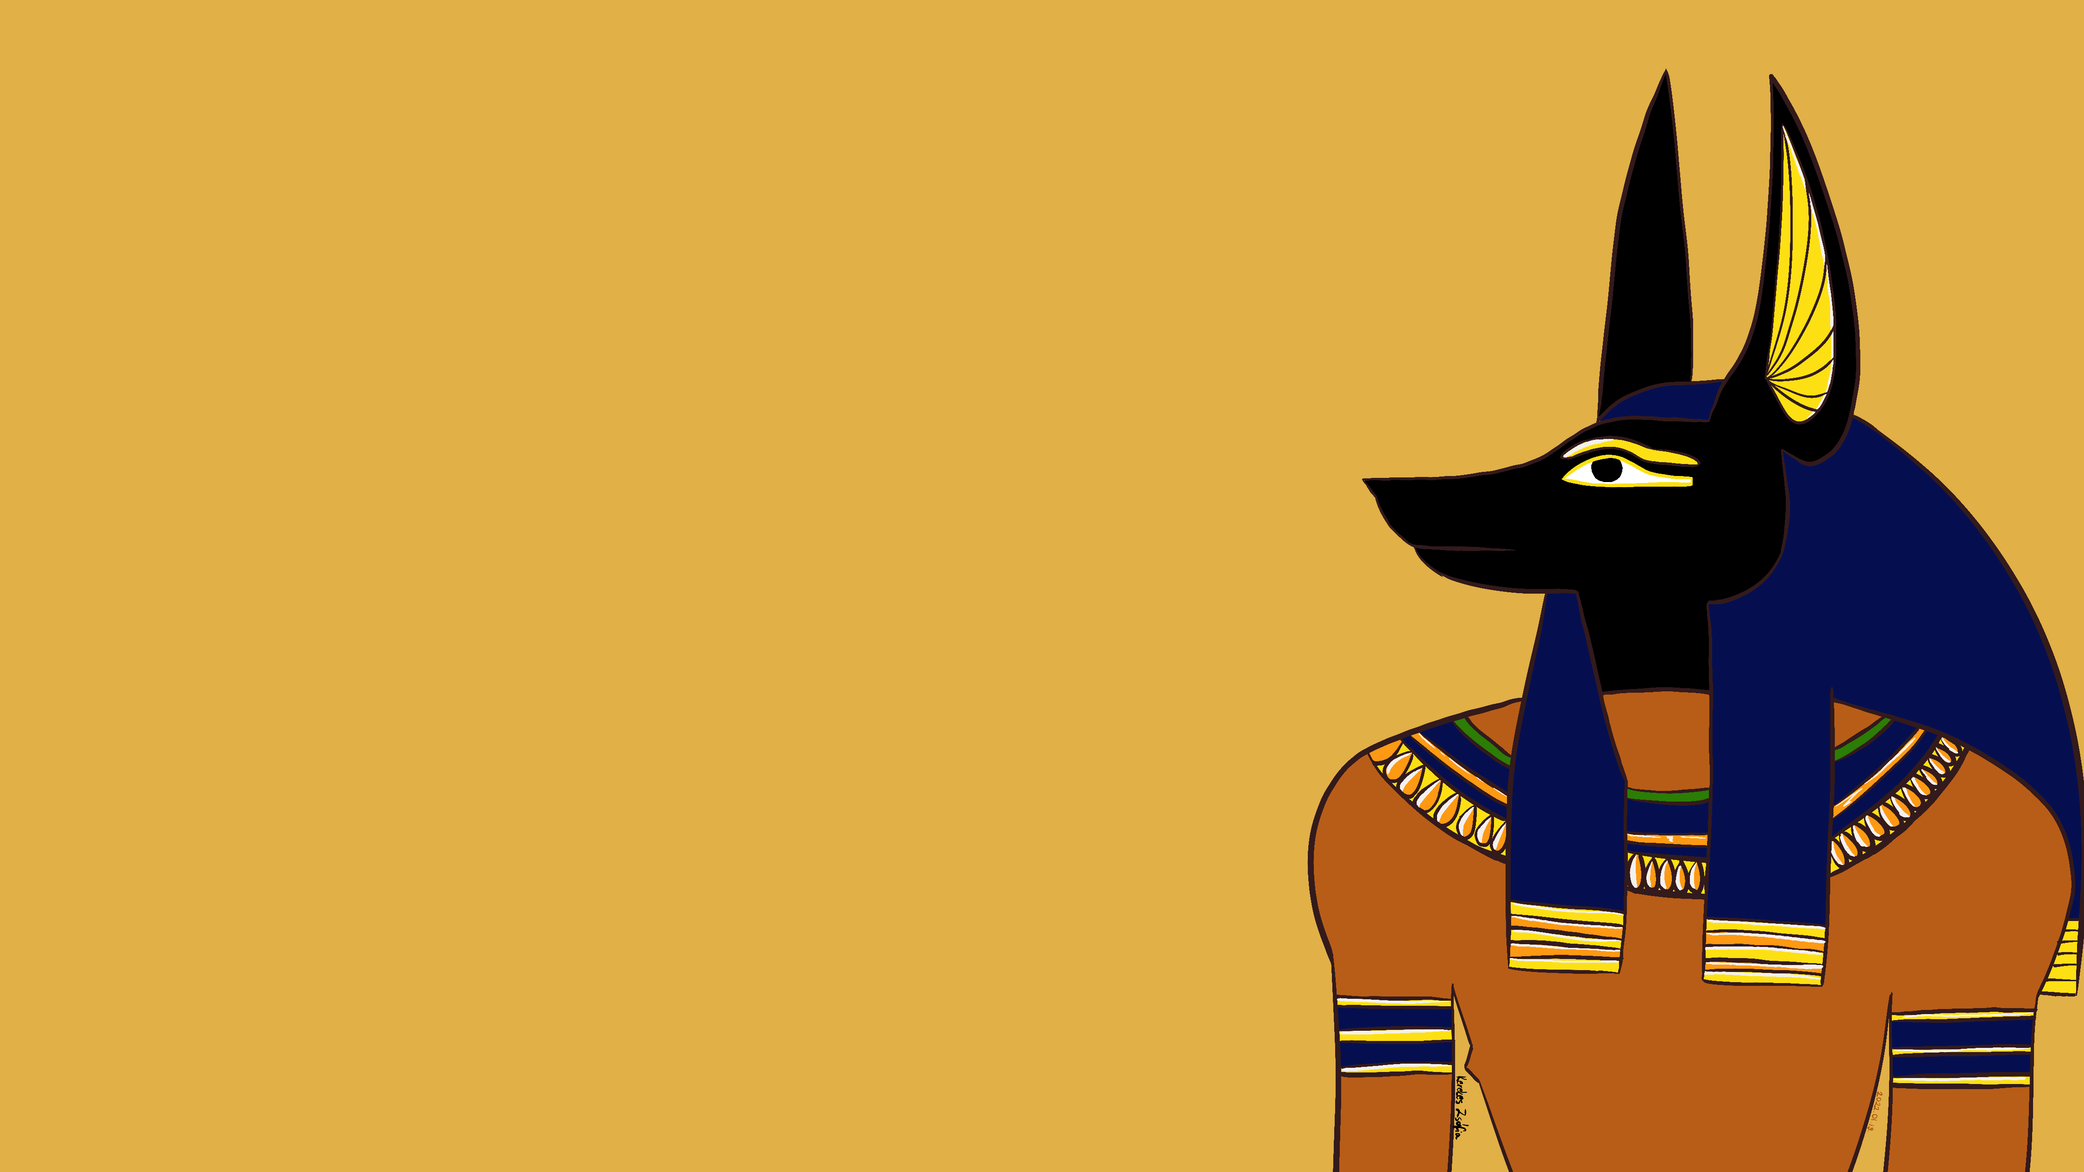
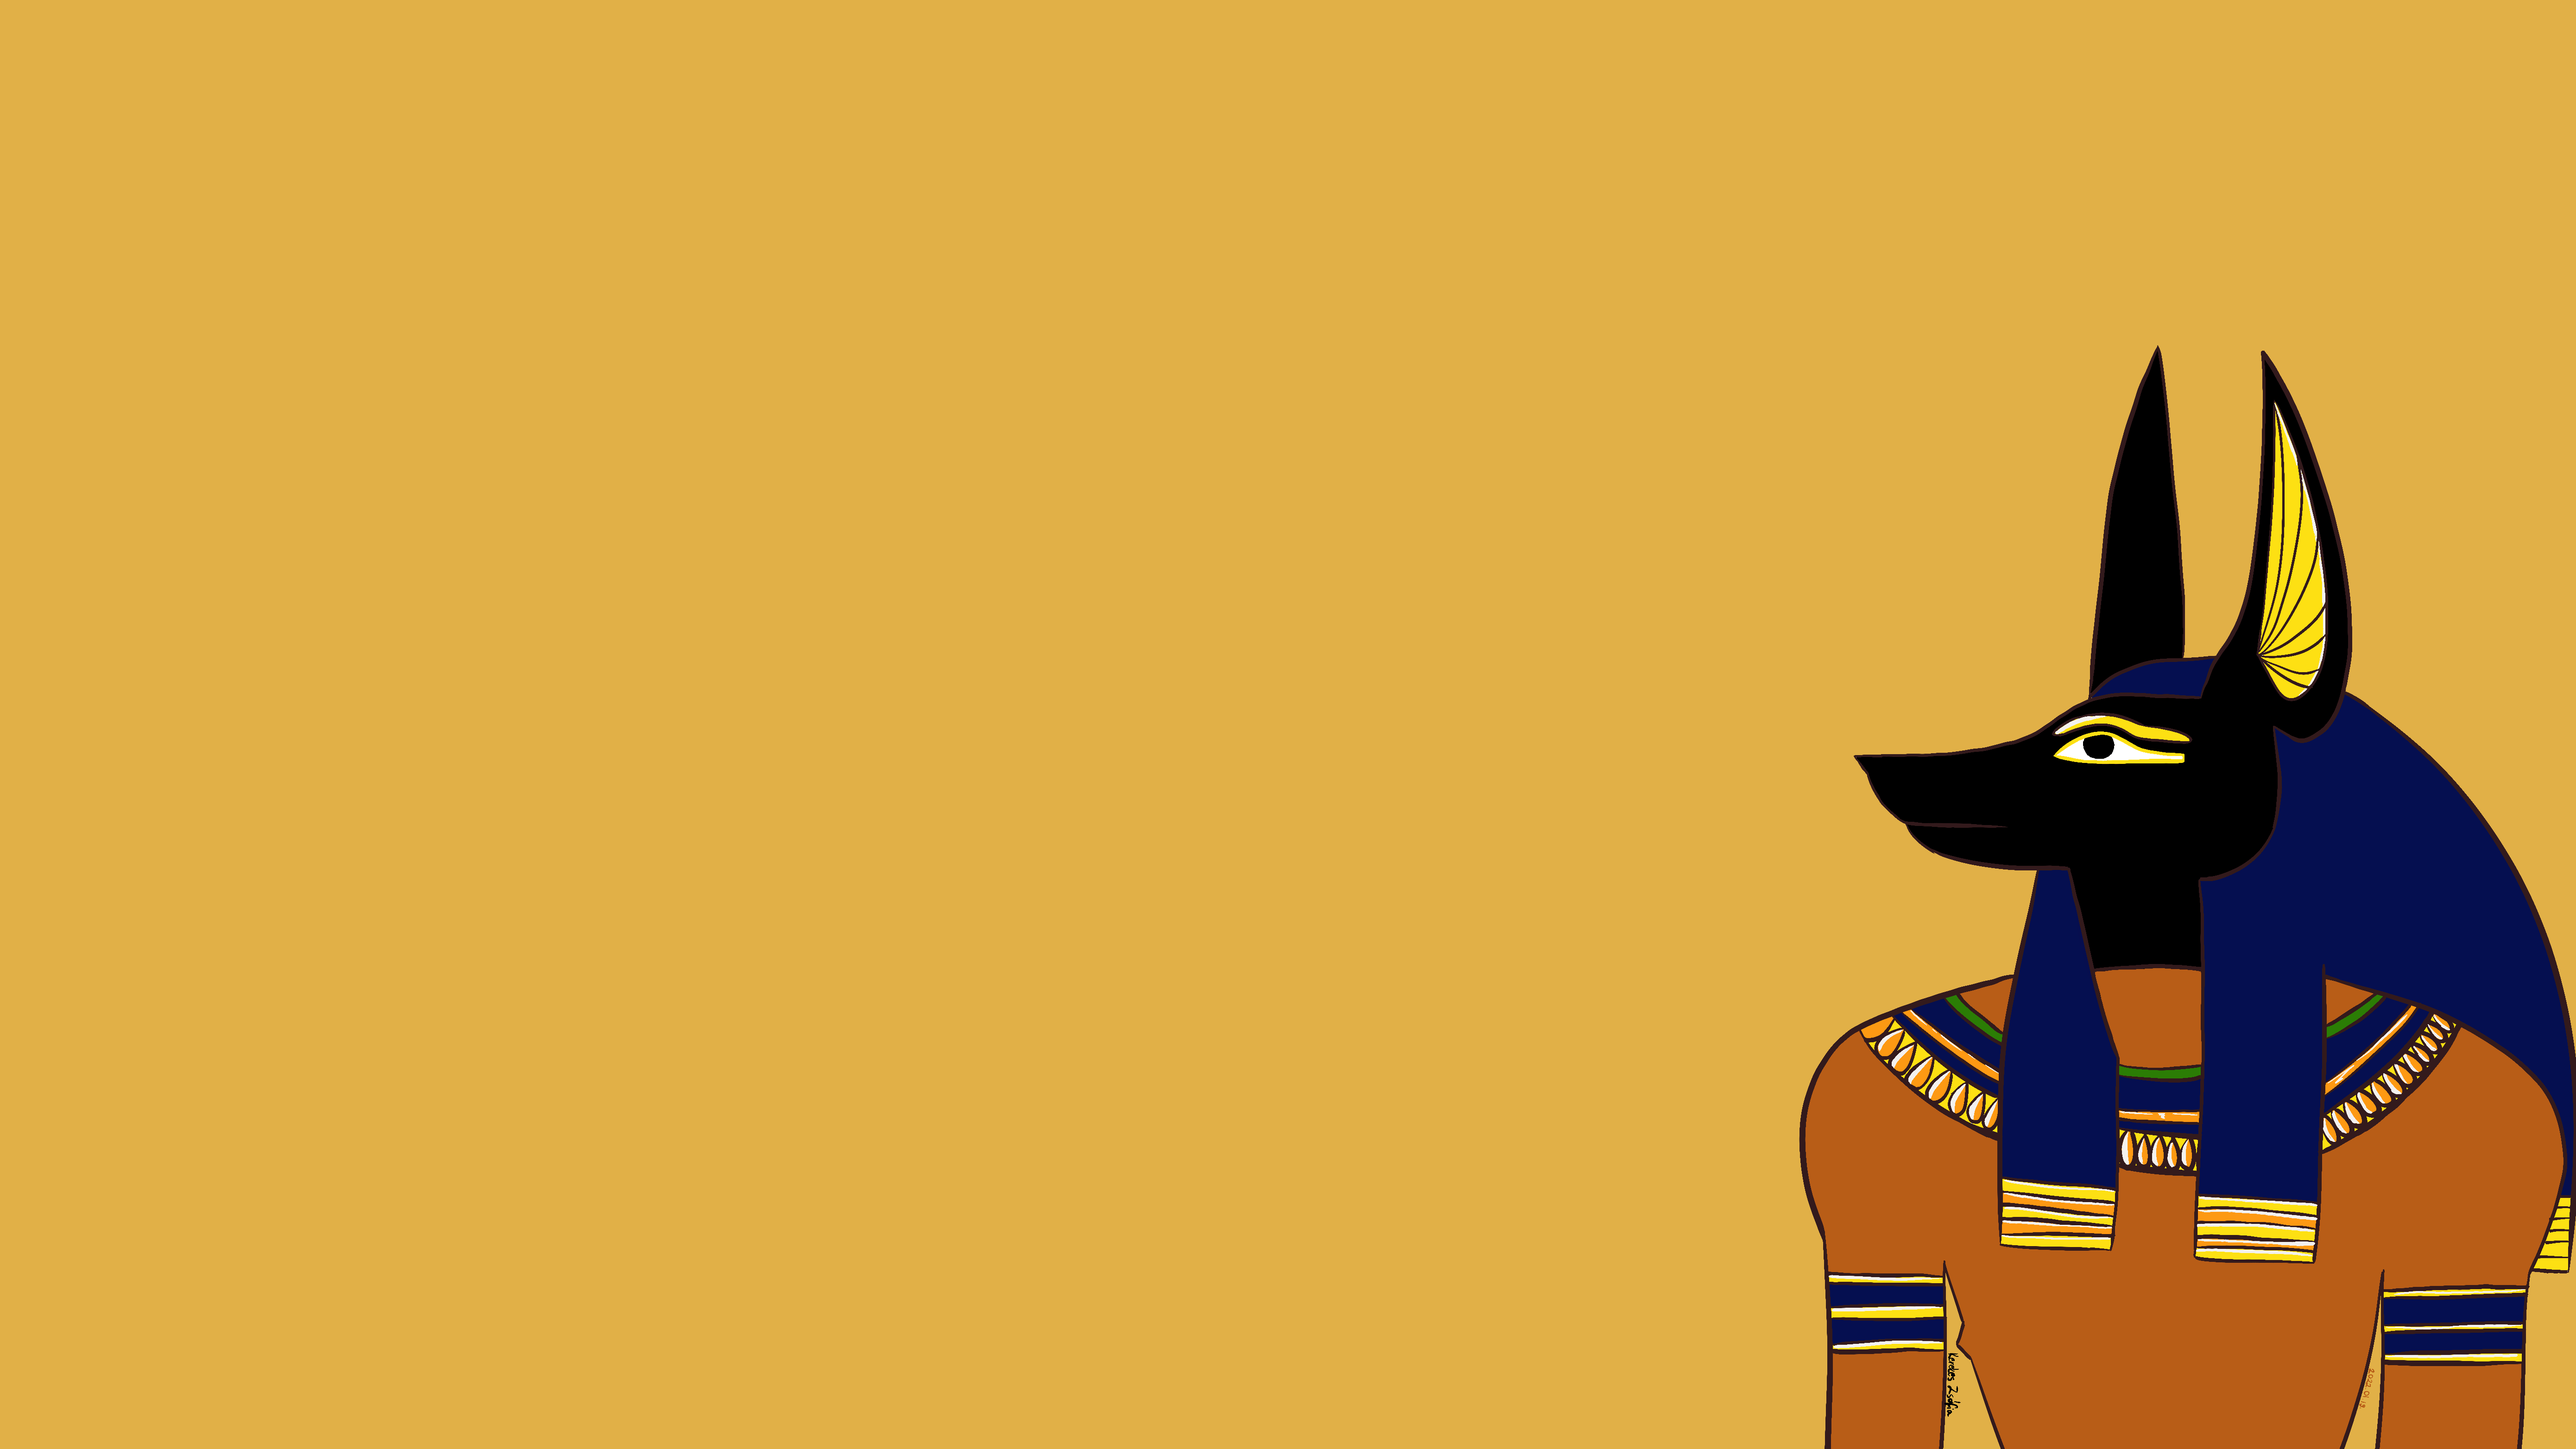
background

Changed region(s): [[0.6222, 0.0624, 1.0, 1.0]]

diff --git a/main.3f6952e4.css b/main.3f6952e4.css
@@ -3893,14 +3893,14 @@ fieldset[disabled] .navbar-default .btn-link:hover {
 }
 .navbar-inverse .navbar-nav > li > a,
 .navbar-inverse .navbar-text {
-  color: #9d9d9d;
+  color: #ffffff;
 }
 .navbar-inverse .navbar-nav > .active > a,
 .navbar-inverse .navbar-nav > .active > a:focus,
 .navbar-inverse .navbar-nav > .active > a:hover,
 .navbar-inverse .navbar-nav > li > a:focus,
 .navbar-inverse .navbar-nav > li > a:hover {
-  color: #fff;
+  font-weight: bold;
   background-color: transparent;
 }
 .navbar-inverse .navbar-nav > .disabled > a,
@@ -3917,7 +3917,7 @@ fieldset[disabled] .navbar-default .btn-link:hover {
   background-color: #333;
 }
 .navbar-inverse .navbar-toggle .icon-bar {
-  background-color: #fff;
+  background-color: rgb(0, 0, 0);
 }
 .navbar-inverse .navbar-collapse,
 .navbar-inverse .navbar-form {
@@ -3930,6 +3930,9 @@ fieldset[disabled] .navbar-default .btn-link:hover {
   color: #fff;
 }
 @media (max-width: 767px) {
+  .navbar-inverse .navbar-toggle .icon-bar {
+    background-color: #fff;
+  }
   .navbar-inverse .navbar-nav .open .dropdown-menu > .dropdown-header {
     border-color: transparent;
   }
@@ -4807,7 +4810,14 @@ body.minimal {
 .background-image-container {
   background-size: cover;
   background-repeat: no-repeat;
-  background-position: top;
+  background-position: right;
+}
+@media (max-width:767px) {
+  .background-image-container {
+    background-size: cover;
+    background-repeat: no-repeat;
+    background-position: bottom;
+  }
 }
 .btn {
   -webkit-transition: all 0.2s linear;

diff --git a/index.html b/index.html
@@ -16,9 +16,22 @@
   <link rel="stylesheet" href="https://fonts.googleapis.com/css?family=Fjalla+One">
   <title>Zsófia Kerekes</title>  
 
+  <style>
+    .hero-full-container.background-image-container.white-text-container {
+      background-image:url('./assets/images/background.png');
+    }
+    @media (max-width:767px) {
+      .hero-full-container.background-image-container.white-text-container {
+        background-image:url('./assets/images/phone.png');
+      }
+
+    }
+
+  </style>
+
 <link href="./main.3f6952e4.css" rel="stylesheet"></head>
 
-<body class="minimal">
+<body class="minimal" style="font-size:100%;">
 <div id="site-border-left"></div>
 <div id="site-border-right"></div>
 <div id="site-border-top"></div>
@@ -49,13 +62,13 @@
   </nav>
 </header>
 <!-- Add your site or app content here -->
-  <div class="hero-full-container background-image-container white-text-container" style="background-image: url('./assets/images/background.png')">
+  <div class="hero-full-container background-image-container white-text-container">
     <div class="container">
       <div class="row">
         <div class="col-xs-12">
           <div class="hero-full-wrapper">
             <div class="text-content">
-              <h1 style="font-family: Fjalla One">
+              <h1 style="font-family: Fjalla One; font-size:6.6em;">
                 <span id="typed-strings">
                   <span>I'm Zsófia Kerekes</span>
                   <span>an artist</span>

diff --git a/thanks.html b/thanks.html
@@ -55,7 +55,7 @@
         <div class="col-xs-12">
           <div class="section-container-spacer text-center" style="margin-top: 30%;">
             <h1>Thank you!</h1>
-            <h3>I will respond shortly to your message.</h3>
+            <h3>I will reply to your message soon.</h3>
           </div>
         </div>
     </div>

diff --git a/main.70a66962.js b/main.70a66962.js
@@ -440,7 +440,7 @@
                     stringsElement: "#typed-strings",
                     typeSpeed: 50,
                     backSpeed: 20,
-                    loop: false,
+                    loop: true,
                     loopCount: 1 / 0,
                     showCursor: true,
                     shuffle: !1
